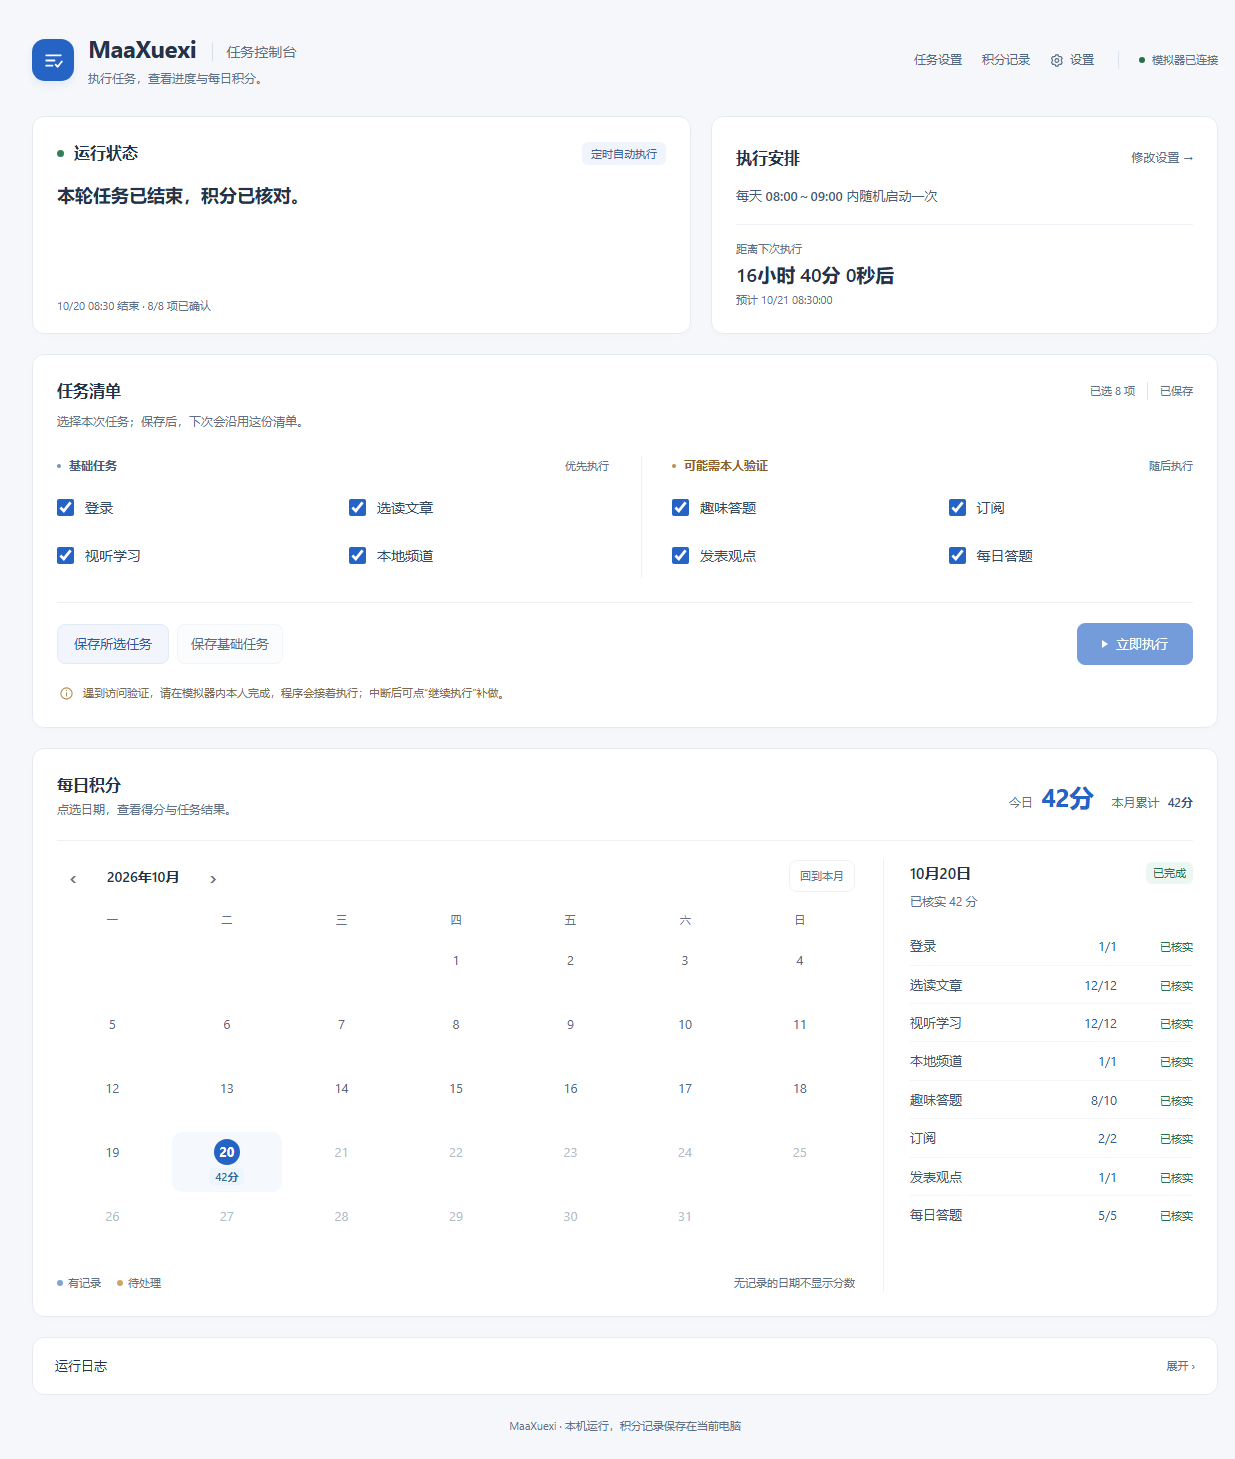
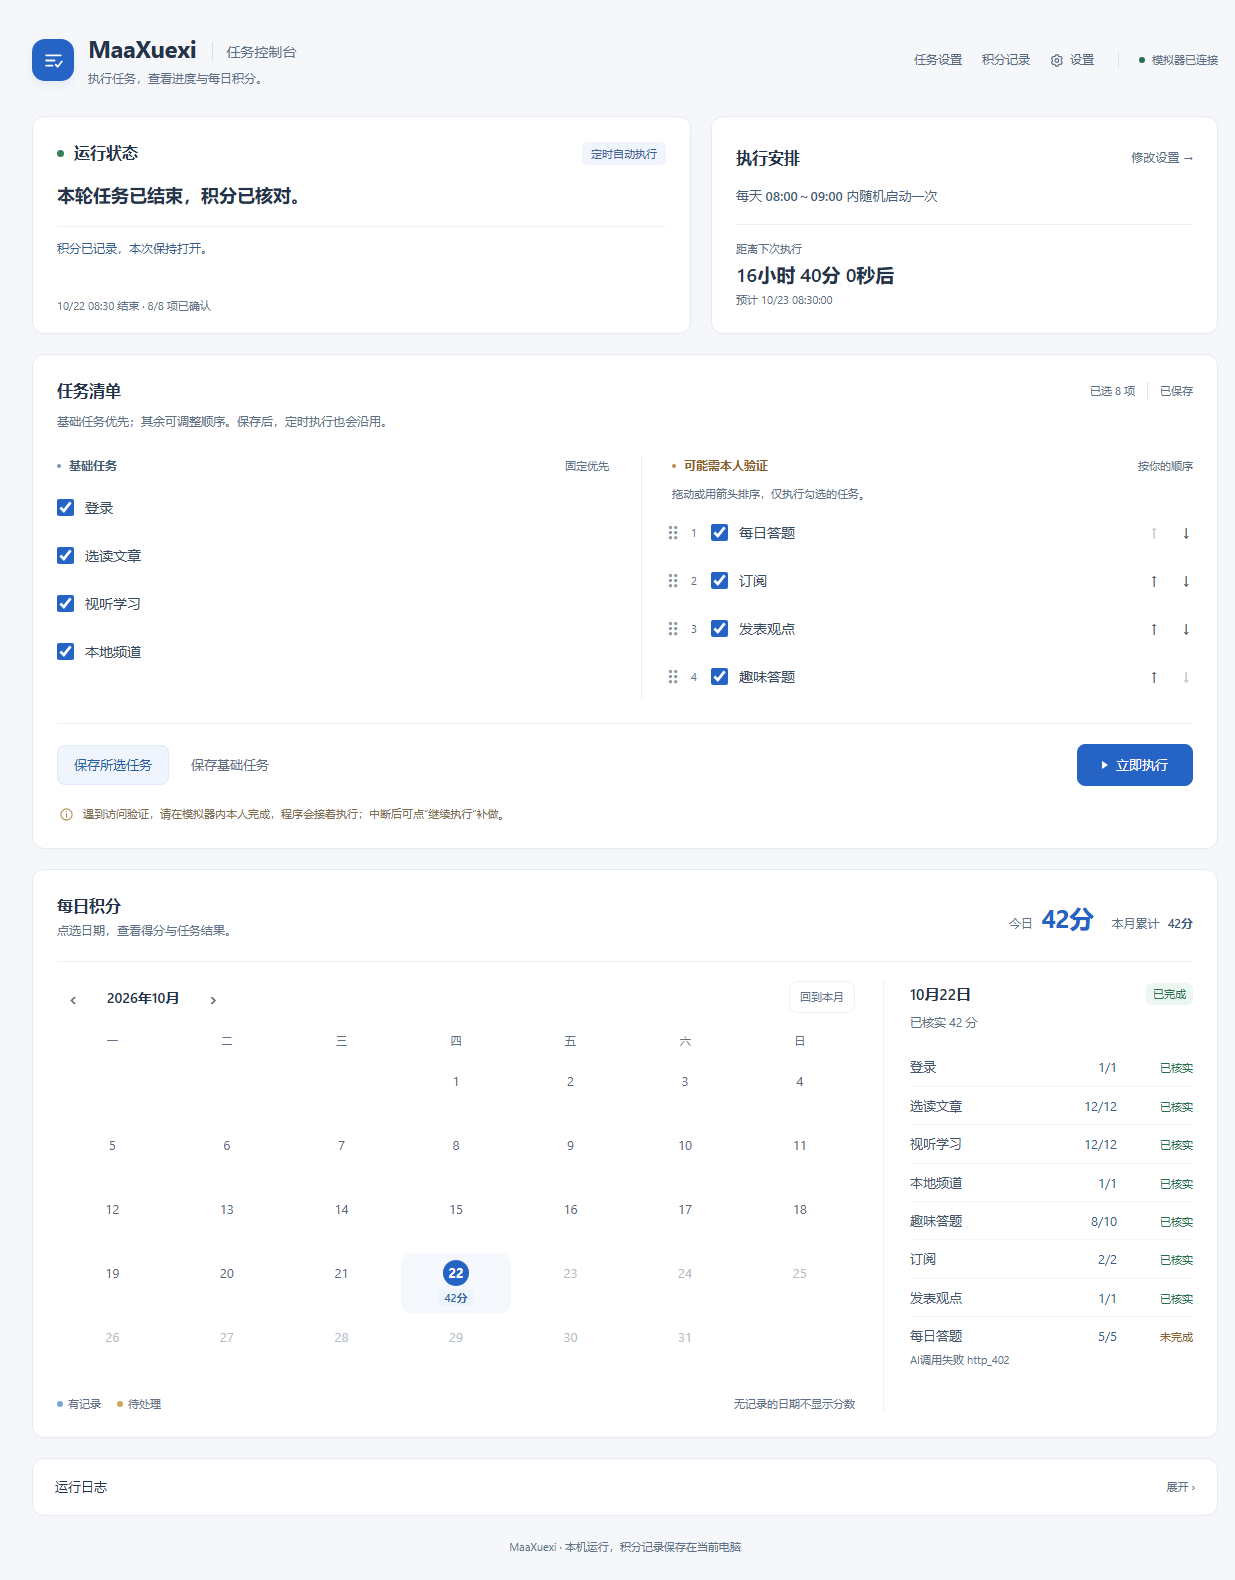
Keep ordered launches readable across Windows code pages
Verify OEM 437 output compatibility and refresh sortable-console documentation with a sanitized preview.

diff --git a/tests/test_task_order.py b/tests/test_task_order.py
@@ -140,14 +140,18 @@ class TaskOrderTests(unittest.TestCase):
         shutil.copy2(Path(__file__).resolve().parents[1]/'scripts/Run-Daily.ps1',script)
         for name in ('scripts/Start-MaaXuexi.ps1','backend/webui.py','config/emulator.json','config/deepseek-key.dpapi'):
             target=self.root/name;target.parent.mkdir(parents=True,exist_ok=True);target.touch()
-        command=['powershell.exe','-NoProfile','-NonInteractive','-ExecutionPolicy','Bypass','-File',str(script),'-CheckOnly']
+        # Match English Windows/CI: Chinese must survive even when the parent
+        # starts with the OEM 437 console encoding.
+        command=['powershell.exe','-NoProfile','-NonInteractive','-ExecutionPolicy','Bypass','-Command',
+                 '[Console]::OutputEncoding=[Text.Encoding]::GetEncoding(437); & $env:MAA_ORDER_SCRIPT -CheckOnly']
+        environment=dict(os.environ,MAA_ORDER_SCRIPT=str(script))
         result=subprocess.run(command,capture_output=True,text=True,encoding='utf-8',errors='replace',timeout=20,
-                              creationflags=getattr(subprocess,'CREATE_NO_WINDOW',0))
+                              env=environment,creationflags=getattr(subprocess,'CREATE_NO_WINDOW',0))
         self.assertEqual(result.returncode,0,result.stderr)
         self.assertEqual(json.loads(result.stdout)['tasks'],list(BASIC_TASKS)+CUSTOM)
         data['task_order']=['趣味答题']*4;path.write_text(json.dumps(data),'utf-8');before=path.read_bytes()
         result=subprocess.run(command,capture_output=True,text=True,encoding='utf-8',errors='replace',timeout=20,
-                              creationflags=getattr(subprocess,'CREATE_NO_WINDOW',0))
+                              env=environment,creationflags=getattr(subprocess,'CREATE_NO_WINDOW',0))
         self.assertNotEqual(result.returncode,0)
         self.assertIn('Invalid local task order',result.stderr)
         self.assertEqual(path.read_bytes(),before)

diff --git a/README.md b/README.md
@@ -1,6 +1,6 @@
 # MaaXuexi
 
-基于 [MaaFramework](https://github.com/MaaXYZ/MaaFramework) 和 [上游 MaaXuexi](https://github.com/ravizhan/MaaXuexi) 的 Windows 本地任务控制台。通过 MuMu 模拟器操作学习强国，在浏览器里选择任务、查看实际积分、暂停或继续，并设置每日启动时间。
+基于 [MaaFramework](https://github.com/MaaXYZ/MaaFramework) 和 [上游 MaaXuexi](https://github.com/ravizhan/MaaXuexi) 的 Windows 本地任务控制台。通过 MuMu 模拟器操作学习强国，在浏览器里选择并排序任务、查看实际积分、暂停或继续，并设置每日启动时间。
 
 **先使用基础任务；需要答题时再配置 DeepSeek。访问验证仍须本人完成。** 程序会核对实际积分，已满分的项目自动跳过，不把点击成功当成任务完成。
 
@@ -28,6 +28,7 @@
 | 订阅 | 逐个操作后核分，记录订阅/取消次数，并清理程序新增关注 |
 | 发表观点 | **新安装默认关闭**；启用后仅对科普生活内容阅读全文并生成、复核短评，属于账号公开发言 |
 | 手动与定时 | 手动立即执行，或选择时间点/时间段；时间段每天随机选定一次 |
+| 任务排序 | 基础任务固定优先，其余四项可拖动、箭头或键盘排序；保存后用于定时，续跑保留原轮安排 |
 | 暂停与续做 | 中断后按原清单重新核分，补做未完成项目；正常验证恢复后自动接续 |
 | 每日积分 | 按月查看已核实积分，点击日期看各项分数、状态及未完成原因；同日更新记录、不重复累加 |
 | 历史积分导入 | 首次选择积分及明细、仅每日积分或从今天开始；完整明细先确认耗时和零 API 费用，双向核对后按日期合并 |
